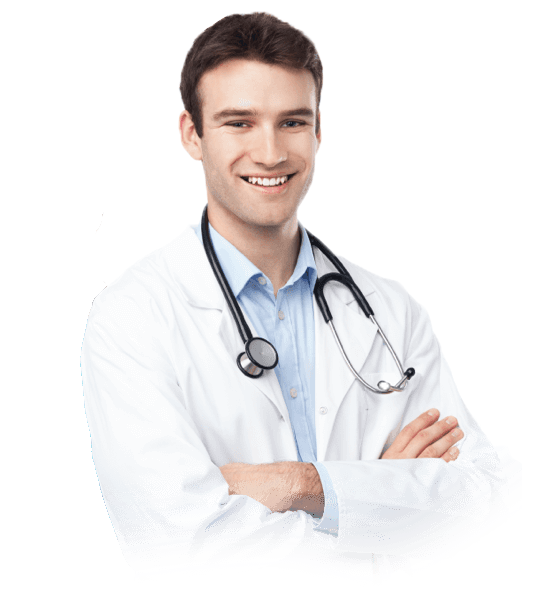
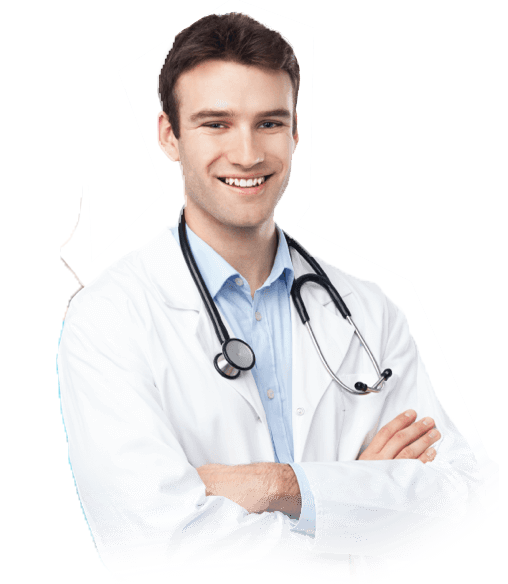
some updat

diff --git a/src/components/ServicedPerson/ServicePerson.js b/src/components/ServicedPerson/ServicePerson.js
@@ -1,0 +1,66 @@
+import React from "react";
+import "./ServicePerson.css";
+import image1 from '../../images/small-picture/image1.jpg';
+import image2 from '../../images/small-picture/image2.jpg';
+import image3 from '../../images/small-picture/image3.jpg';
+import MasterCart from "../MasterCart/MasterCart";
+
+const ServicePerson = () => {
+  return (
+    <div>
+      <div className="back-clr">
+      <div className="text-center container mt-5">
+        <div className="mx-auto sixe">
+          <h1 className="mt-5 mb-3">Cosmic Dental</h1>
+          <p className="mb-5">
+          Our clinic offers all kinds of services and constantly study new technology to add new custom services to the list
+          </p>
+        </div>
+        <div>
+          <div className="row">
+            <div className="col-sm-4">
+              <div className="card">
+              <img width={'100%'} src={image1} class="card-img-top" alt="..."></img>
+                <div className="card-body">
+                  <h5 className="card-title">Special title treatment</h5>
+                  <p className="card-text">
+                  Cosmetic dentistry mainly concerns improving the appearance of your teeth, including whitening & …
+                  </p>
+                  <div className="btn-more mx-auto">More Details</div>
+                </div>
+              </div>
+            </div>
+            <div className="col-sm-4">
+              <div className="card">
+              <img width={'100%'} src={image2} class="card-img-top" alt="..."></img>
+                <div className="card-body">
+                  <h5 className="card-title">Dental Implant</h5>
+                  <p className="card-text">
+                  Cosmetic dentistry mainly concerns improving the appearance of your teeth, including whitening & …
+                  </p>
+                  <div className="btn-more mx-auto">More Details</div>
+                </div>
+              </div>
+            </div>
+            <div className="col-sm-4 cursor-pointer">
+              <div className="card">
+              <img width={'100%'} src={image3} class="card-img-top" alt="..."></img>
+                <div className="card-body">
+                  <h5 className="card-title">Pediatric Dentist</h5>
+                  <p className="card-text">
+                  Cosmetic dentistry mainly concerns improving the appearance of your teeth, including whitening & …
+                  </p>
+                  <div className="btn-more mx-auto">More Details</div>
+                </div>
+              </div>
+            </div>
+          </div>
+        </div>
+      </div>
+    </div>
+    <MasterCart/>
+    </div>
+  );
+};
+
+export default ServicePerson;

diff --git a/src/components/Home/Home.js b/src/components/Home/Home.js
@@ -1,26 +1,35 @@
 import React from "react";
 import doctor from "../../images/doctors-picture/h1-doctor.png";
+import Services from "../Services/Services";
 import "./Home.css";
 
 const Home = () => {
   return (
-    <div className=" container">
+    <div>
+      <div className='back-clr'>
+      <div className="container position-relative">
       <div className='row d-flex justify-content-around align-items-center'>
-      <div className='col-6'>
-        <img src={doctor} alt="" />
+      <div className='col-12 col-md-6 '>
+        <img width={'100%'} src={doctor} alt="" />
       </div>
-      <div className='col-6 h1-clr d-inline-block'>
-        <h1>Modern-day Caring Technologies for Your Dental Health</h1>
-        SmilePure always places patients at the center of our attention, and concentrate on improving their experience with the aid of technologies.
-        <ul>
+      <div className='h1-clr col-12 col-md-6 h1-clr d-inline-block'>
+        <h1 className='text-uppercase'>Modern-day Caring Technologies for Your Dental Health</h1>
+        <p className='my-4'>SmilePure always places patients at the center of our attention, and concentrate on improving their experience with the aid of technologies.</p>
+        <ul className='checklist my-2'>
           <li>We check for your current dental situation and decide treatment</li>
           <li>Our specialists will take care of your smile with dedication</li>
           <li>We run periodic check-ups to ensure your teeth are good</li>
           <li>Even on weekends & holidays, our staff still work at your services</li>
         </ul>
-        <button className="btn btn-warning">Hellow</button>
+        <div className="mt-4 d-flex">
+        <div className="btn-more">More About Us</div>
+        <div className="ms-4 btn-more-sec">View Our Services</div>
+        </div>
       </div>
       </div>
+    </div>
+    </div>
+    <Services/>
     </div>
   );
 };

diff --git a/src/components/Services/Services.js b/src/components/Services/Services.js
@@ -1,0 +1,46 @@
+import React from "react";
+import "./Services.css";
+import tImg1 from "../../images/small-picture/h1-icon-new-1.png";
+import tImg2 from "../../images/small-picture/h1-icon-new-2.png";
+import tImg3 from "../../images/small-picture/h1-icon-new-3.png";
+import tImg4 from "../../images/small-picture/h1-icon-new-4.png";
+import ServicePerson from "../ServicedPerson/ServicePerson";
+// import tImg5 from "../../images/small-picture/h1-icon-new-5.png";
+// import tImg5 from '../../images/small-picture/h1-icon-new-5.png';
+
+const Services = () => {
+  return (
+    <div>
+      <div className="container mx-auto">
+      <div className="row ">
+        <div className="col">
+          <div className="p-3 border-0">
+            <div className="row text-center mt-2">
+            <h1 className="my-5">Service Specialty</h1>
+              <div className="col-12 col-md-3">
+                <img src={tImg1} alt="" />
+                <h5 className='mt-4'>24/7 Express Services</h5>
+              </div>
+              <div className="col-12 col-md-3">
+              <img src={tImg2} alt="" />
+              <h5 className='mt-4'>15 Years of Experience</h5>
+              </div>
+              <div className="col-12 col-md-3">
+              <img src={tImg3} alt="" />
+              <h5 className='mt-4'>Modern Advanced Technologies</h5>
+              </div>
+              <div className="col-12 col-md-3">
+              <img src={tImg4} alt="" />
+              <h5 className='mt-4'>Promotional Yearly Membership</h5>
+              </div>
+            </div>
+          </div>
+        </div>
+      </div>
+    </div>
+      <ServicePerson/>
+    </div>
+  );
+};
+
+export default Services;

diff --git a/src/components/MasterCart/MasterCart.js b/src/components/MasterCart/MasterCart.js
@@ -1,0 +1,32 @@
+import React from "react";
+import masterCart from '../../images/small-picture/atm-cart.png';
+import './MasterCart.css';
+
+const MasterCart = () => {
+  return (
+    <div className="mt-5">
+      <div className="">
+        <div className="container position-relative">
+          <div className="row d-flex justify-content-around align-items-center">
+            <div className="col-12 col-md-6 ">
+              <img width={"100%"} src={masterCart} alt="master cart" />
+            </div>
+            <div className="h1-clr col-12 col-md-6 h1-clr d-inline-block">
+              <h1>
+              Purchase Our Membership to Save More
+              </h1>
+              <p className="my-4">
+              SmilePure Clinic provides wide-ranging dental services for all age groups from children to the elderly. We are happy that we can be available to help.
+              </p>
+              <div className="mt-4">
+                <div className="btn-more-join">Join Us Now</div>
+              </div>
+            </div>
+          </div>
+        </div>
+      </div>
+    </div>
+  );
+};
+
+export default MasterCart;

diff --git a/src/App.js b/src/App.js
@@ -7,6 +7,8 @@ import Login from "./components/Shared/Login/Login";
 import Signup from "./components/Shared/Signup/Signup";
 import Blog from "./components/Blog/Blog";
 import Home from "./components/Home/Home";
+import NotFound from "./components/Shared/NotFound/NotFound";
+import Footer from "./components/Shared/Footer/Footer";
 
 function App() {
   return (
@@ -18,7 +20,9 @@ function App() {
         <Route path="login" element={<Login />} />
         <Route path="signup" element={<Signup />} />
         <Route path="blog" element={<Blog />} />
+        <Route path="*" element={<NotFound />} />
       </Routes>
+      <Footer />
     </div>
   );
 }

diff --git a/src/components/Home/Home.css b/src/components/Home/Home.css
@@ -1,4 +1,30 @@
-.h1-clr h3{
+.h1-clr h1{
   color: #002345;
-  font-family: Heebo;
+}
+.checklist li{
+  list-style: none;
+  color: #002345;
+}
+.btn-more{
+  background: #002345;
+  color: white;
+  font-size: 13px;
+  font-weight: bold;
+  padding: 8px 15px;
+  cursor: pointer;
+  text-transform: uppercase;
+  transition: .3s;
+}
+.btn-more:hover{
+  background: #04376a;
+}
+.btn-more-sec{
+  font-size: 13px;
+  font-weight: bold;
+  padding: 8px 15px;
+  cursor: pointer;
+  text-transform: uppercase;
+}
+.back-clr{
+  background: #F0F2F5;
 }

diff --git a/src/components/Shared/Footer/Footer.js b/src/components/Shared/Footer/Footer.js
@@ -1,9 +1,15 @@
-import React from 'react';
+import React from "react";
+import "./Footer.css";
 
 const Footer = () => {
+  let currentYear= new Date().getFullYear(); 
   return (
-    <div>
-      <h1>This is Footer</h1>
+    <div className='back-color mt-5'>
+      <div className="mb-0">
+        <p className="text-center text-white p-5">
+          Copyright © {currentYear}. All rights reserved by PureSmile
+        </p>
+      </div>
     </div>
   );
 };

diff --git a/src/components/MasterCart/MasterCart.css b/src/components/MasterCart/MasterCart.css
@@ -1,0 +1,14 @@
+.btn-more-join {
+  background: #52cbcb;
+  color: white;
+  font-size: 13px;
+  font-weight: bold;
+  padding: 10px 25px;
+  cursor: pointer;
+  text-transform: uppercase;
+  transition: 0.3s;
+  width: 150px;
+}
+.btn-more-join:hover{
+  background: #012345;
+}

diff --git a/src/components/ServicedPerson/ServicePerson.css b/src/components/ServicedPerson/ServicePerson.css
@@ -1,0 +1,14 @@
+.back-clr{
+  background: #F0F2F5;
+}
+.btn-more{
+  background: #002345;
+  color: white;
+  font-size: 13px;
+  width:160px;
+  font-weight: bold;
+  padding: 8px 15px;
+  cursor: pointer;
+  text-transform: uppercase;
+  transition: .3s;
+}

diff --git a/src/components/Shared/NotFound/NotFound.js b/src/components/Shared/NotFound/NotFound.js
@@ -1,0 +1,11 @@
+import React from 'react';
+
+const NotFound = () => {
+  return (
+    <div>
+      <h1>404 NotFound</h1>
+    </div>
+  );
+};
+
+export default NotFound;

diff --git a/src/components/Services/Services.css b/src/components/Services/Services.css
@@ -1,0 +1,3 @@
+.sha-dow{
+  box-shadow: rgba(100, 100, 111, 0.2) 0px 7px 29px 0px;
+}

diff --git a/src/components/Shared/Footer/Footer.css b/src/components/Shared/Footer/Footer.css
@@ -1,0 +1,4 @@
+.back-color{
+  background:#002345;
+  margin-bottom: 0px;
+}
